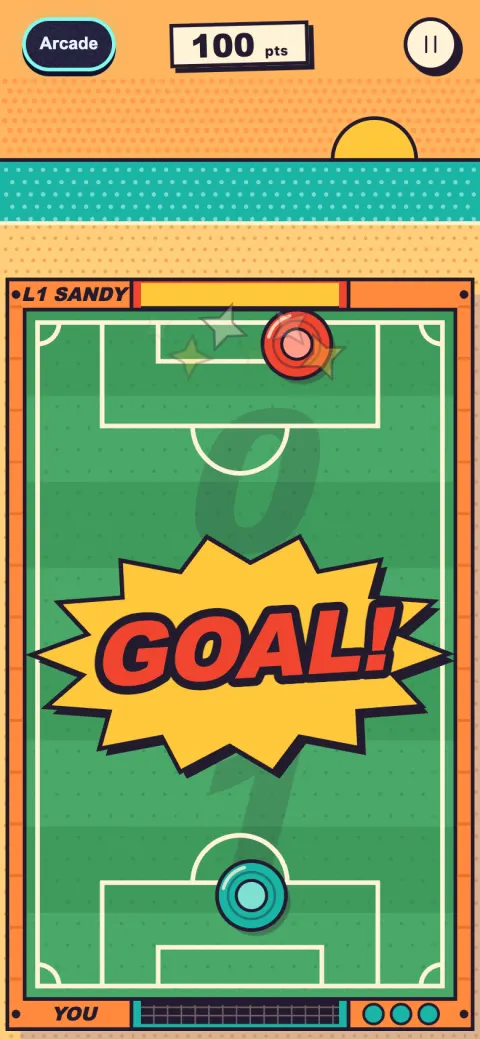
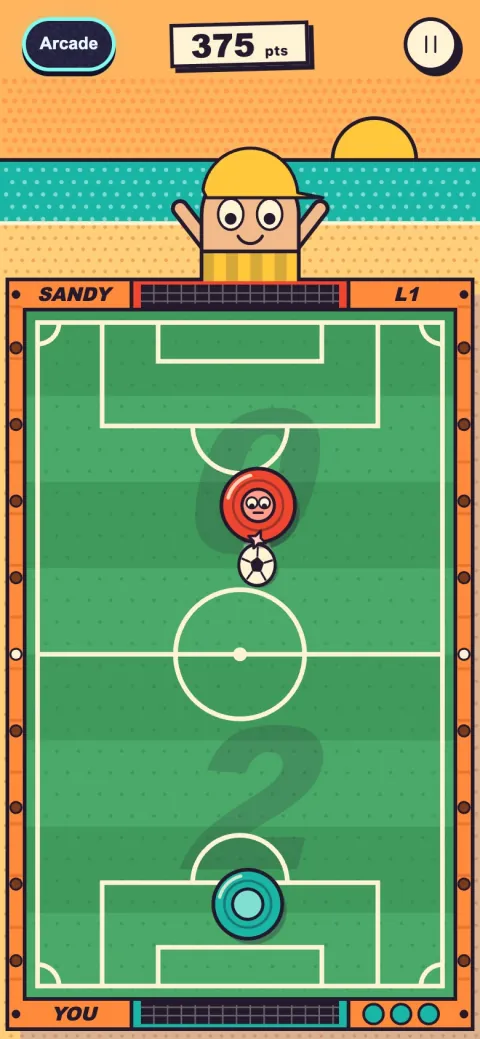
Air Futbol: four real-play shots (rally, smash, wall bank, save vs Pip) replace the two GOAL! stills
Captured with scripts/capture-game-shots.cjs (dev server, 390x844 DPR 2, scripted touch player), 480x1039 WebP.
gameStills now returns up to four stills; the hub's image list and seo-games use four.

diff --git a/lib/site/gameMedia.ts b/lib/site/gameMedia.ts
@@ -57,7 +57,7 @@ const STILL_WORDS:Record<GameId,string[]>={
  tennis:['Futbol Tennis: the ball flies over the net toward the other player','Futbol Tennis: a player runs to reach the ball before it lands','Futbol Tennis: a rally on the clay court with the score at the top'],
  pinball:['Futbol Pinball: the ball races up the table past the bumpers','Futbol Pinball: a flipper kicks the ball back toward the goal','Futbol Pinball: the ball bounces between the bumpers near the goalkeeper'],
  puzzle:['Pass Puzzles: a pass goes from one team-mate to another around a defender','Pass Puzzles: the ball travels toward the striker near the goal','Pass Puzzles: a new puzzle with the players set out on the pitch'],
- airhockey:['Air Futbol: GOAL! The puck flies past the red striker into the top goal','Air Futbol: a bank shot goal off the side wall, worth 75 extra points','Air Futbol: a fast rebound off the side wall'],
+ airhockey:['Air Futbol: a rally against Sandy, the puck crossing the halfway line between the red and the teal striker','Air Futbol: SMASH! The teal striker drives up into the puck and sends it flying up the pitch','Air Futbol: the puck banks off the left side wall in the middle of a rally','Air Futbol against Pip, the level 2 opponent: SAVE! as the teal striker stops a fiery shot in front of its own goal'],
  lineup:['Line Up! early in a run: a few shapes of footballs on the pitch, one shape left in the tray and the empty bench beside it','Line Up!: a line fills, the footballs are kicked off the pitch and LINE UP! and +100 appear','Line Up!: a shape of three star balls held above a crowded pitch, with its shadow on the square where it will land'],
  trophydrop:['Trophy Drop at the start: a boot hangs over the cabinet, with a glove and balls at the bottom','Trophy Drop: a CHAIN x2 burst as two items merge on the pile','Trophy Drop at level 2: the cabinet gets smaller, with a medal in the pile'],
  rollball:['Roll It In: the ball flies over a gap between rooftops after a metal ramp, with a star collected in the air','Roll It In: POW! as the ball knocks a training cone off its stack, a cable runs to the gate','Roll It In at night: the ball climbs a half-pipe to a glowing plate on the ledge'],
@@ -70,13 +70,13 @@ const STILL_CAPS:Record<GameId,string[]>={
  tennis:['Over the net and into the court.','Get to the ball before it bounces twice.','The score sits at the top.'],
  pinball:['Bumpers send the ball flying.','Flip it back up the table.','Score past the goalkeeper.'],
  puzzle:['Pass around the defender.','Then find the striker.','Each puzzle is a new picture.'],
- airhockey:['Score in the top goal.','Bank shots score extra.','Use the side walls.'],
+ airhockey:['Keep the rally going.','Swipe into the puck for a smash.','Bank shots score extra.','Each win brings a new opponent.'],
  lineup:['A tray of shapes and a bench.','A full line clears.','Drag a shape to its place.'],
  trophydrop:['Aim, then drop.','Merges can chain.','The cabinet gets smaller.'],
  rollball:['Take the ramp fast.','Stars sit off the main path.','Climb the half-pipe to both plates.'],
  ballblaster:['Break two things with one ball for a trick.','Barrels and towers make chain reactions.','Curl the ball round a shield.'],
 };
-export function gameStills(id:GameId,max=3):GameShot[]{
+export function gameStills(id:GameId,max=4):GameShot[]{
  return (MEDIA.shots[id]??[]).slice(0,max).map((s,i)=>({src:`${SHOTS_DIR}/${s.file}`,w:s.w,h:s.h,alt:STILL_WORDS[id][i]??`${GAME_CLIP_DEFS[id].name}, picture ${i+1}`,caption:STILL_CAPS[id][i]??''}));
 }
 /** Inside the island: the 3D island game around the arcade. Order is the gallery's order. */

diff --git a/lib/site/games.ts b/lib/site/games.ts
@@ -397,7 +397,7 @@ export const gameCrumbs=(...tail:{name:string;path:string}[])=>[{name:'Home',pat
 /** For the sitemap, llms.txt and the image sitemap: the hub first, then one page per game. */
 export type GameListing={path:string;name:string;title:string;description:string;blurb:string;hub?:boolean;images:string[]};
 export const GAME_LISTINGS:readonly GameListing[]=[
- {path:GAMES_HUB.path,name:GAMES_HUB.h1,title:GAMES_HUB.title,description:GAMES_HUB.description,blurb:GAMES_HUB.blurb,hub:true,images:[GAMES_HUB.og,...GAME_PAGES.map(g=>g.shots[0].src),...GAME_PAGES.flatMap(g=>gameStills(g.id,3).map(s=>s.src)),...islandStills().map(s=>s.src),...(HERO_CLIP?[HERO_CLIP.poster]:[])]},
+ {path:GAMES_HUB.path,name:GAMES_HUB.h1,title:GAMES_HUB.title,description:GAMES_HUB.description,blurb:GAMES_HUB.blurb,hub:true,images:[GAMES_HUB.og,...GAME_PAGES.map(g=>g.shots[0].src),...GAME_PAGES.flatMap(g=>gameStills(g.id).map(s=>s.src)),...islandStills().map(s=>s.src),...(HERO_CLIP?[HERO_CLIP.poster]:[])]},
  ...GAME_PAGES.map(g=>({path:g.path,name:g.h1,title:g.title,description:g.description,blurb:g.blurb,images:[...allShots(g).map(s=>s.src),g.og]})),
 ];
 /* ---- JSON-LD ---- */
